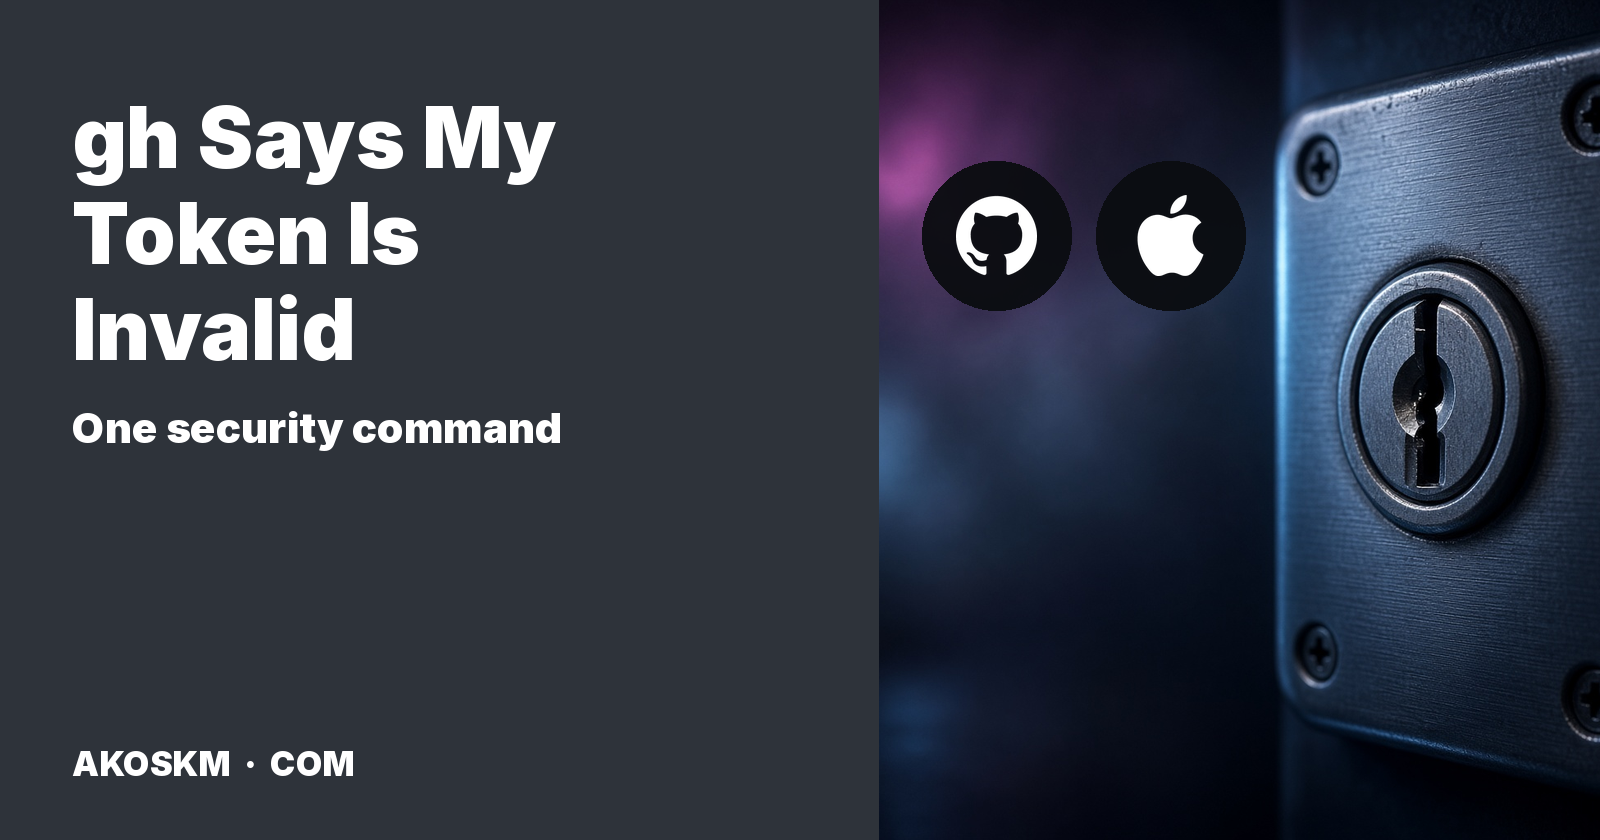
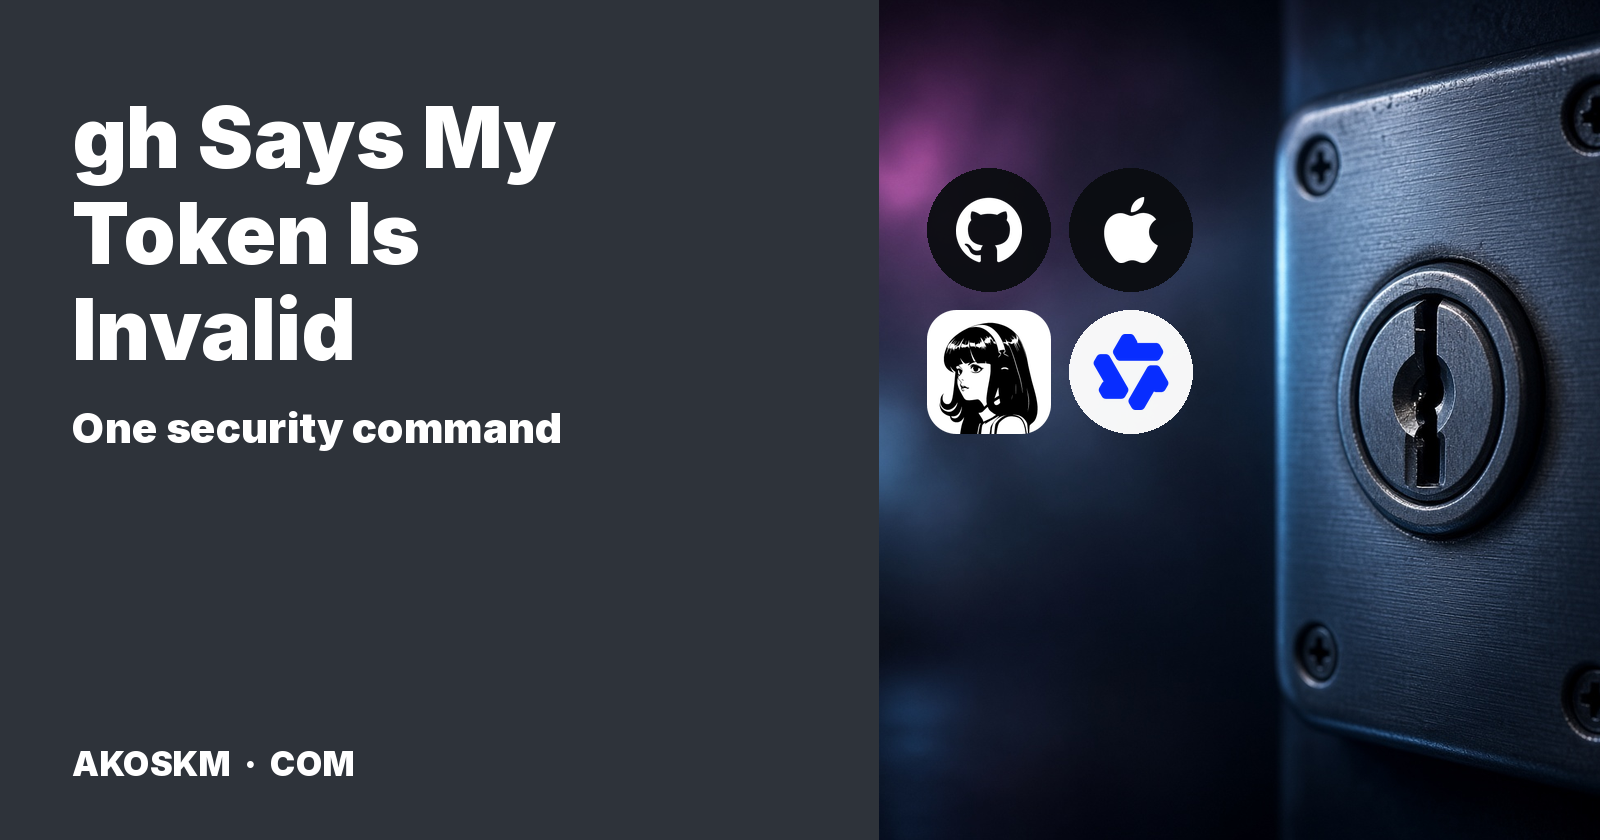
Add Hermes and Qwen marks to the post cover

Changed region(s): [[0.5625, 0.1857, 0.7812, 0.5262]]

diff --git a/src/content/blog/gh-token-invalid-ai-agent-macos-keychain.md b/src/content/blog/gh-token-invalid-ai-agent-macos-keychain.md
@@ -3,7 +3,7 @@ title: "gh Says My Token Is Invalid Inside My AI Agent. One security Command Fix
 publishedAt: "2026-10-31"
 description: "gh returned 401 only when my local-model agent ran it. My login was fine. One security unlock-keychain command inside the agent fixed it, no password asked."
 coverImage: "../../assets/covers/gh-token-invalid-ai-agent-macos-keychain.png"
-coverAlt: "GitHub and Apple logos beside a locked keyhole. The title reads gh Says My Token Is Invalid, one security command."
+coverAlt: "GitHub, Apple, Hermes, and Qwen logos beside a locked keyhole. The title reads gh Says My Token Is Invalid, one security command."
 tags:
   - name: "AI"
     slug: "ai"
